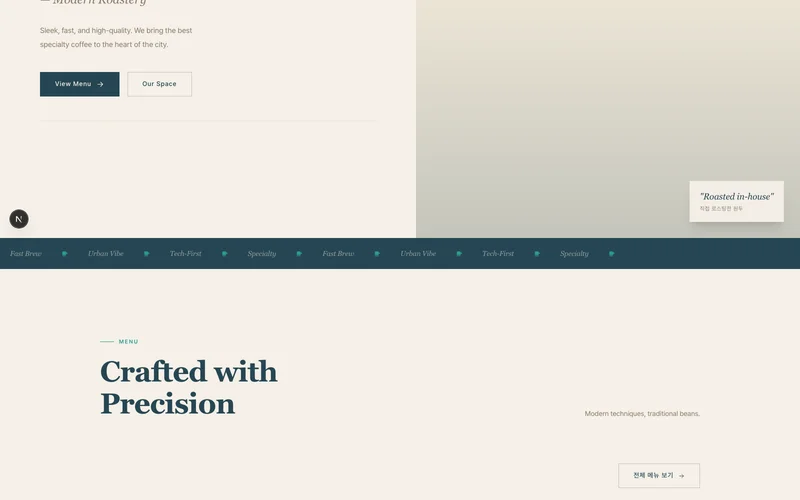
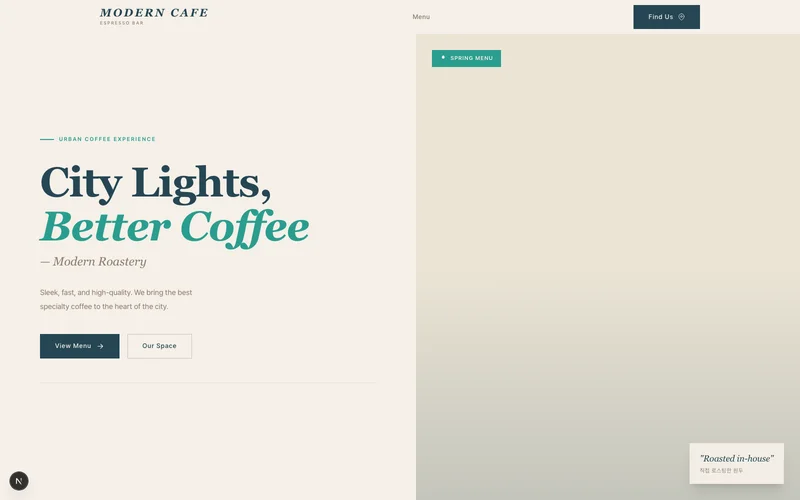
fix(template): 썸네일을 navbar+히어로(상단 기준)로 캡처
기존 fullpage 캡처 후 800x500 cover 리사이즈가 페이지 중앙을 잘라
썸네일 구도가 중구난방이었음. 전 템플릿 thumbnail.config.ts의
capture를 'fullpage'→'hero'로 변경(상단 뷰포트 1600x1000 클립).
뷰포트와 리사이즈 타겟이 동일 1.6:1 비율이라 왜곡 없이 맨 위
navbar + 히어로 섹션이 통념적 구도로 잡힘. 전 템플릿 재캡처.

diff --git a/src/templates/corporate/multipage/thumbnail.config.ts b/src/templates/corporate/multipage/thumbnail.config.ts
@@ -3,7 +3,7 @@ const config = {
   // thumbnail reflects the actual renderer + tokens + imagery.
   source: 'preview://corporate-multipage',
   viewport: { width: 1600, height: 1000 },
-  capture: 'fullpage',
+  capture: 'hero',
   output: 'public/thumbnails/template-corporate-multipage.webp',
   resize: { width: 800, height: 500 },
   waitFor: { fonts: true, networkIdle: true, minDelay: 500 },

diff --git a/src/templates/outdoor/default/thumbnail.config.ts b/src/templates/outdoor/default/thumbnail.config.ts
@@ -3,7 +3,7 @@ const config = {
   // thumbnail reflects the actual renderer + tokens + imagery.
   source: 'preview://outdoor-default',
   viewport: { width: 1600, height: 1000 },
-  capture: 'fullpage',
+  capture: 'hero',
   output: 'public/thumbnails/template-outdoor-default.webp',
   resize: { width: 800, height: 500 },
   waitFor: { fonts: true, networkIdle: true, minDelay: 800 },

diff --git a/src/templates/corporate/default/thumbnail.config.ts b/src/templates/corporate/default/thumbnail.config.ts
@@ -1,7 +1,7 @@
 const config = {
   source: 'preview://corporate-default',
   viewport: { width: 1600, height: 1000 },
-  capture: 'fullpage',
+  capture: 'hero',
   output: 'public/thumbnails/template-corporate-default.webp',
   resize: { width: 800, height: 500 },
   waitFor: { fonts: true, networkIdle: true, minDelay: 500 },

diff --git a/src/templates/interior/default/thumbnail.config.ts b/src/templates/interior/default/thumbnail.config.ts
@@ -1,7 +1,7 @@
 const config = {
   source: 'preview://interior-default',
   viewport: { width: 1600, height: 1000 },
-  capture: 'fullpage',
+  capture: 'hero',
   output: 'public/thumbnails/template-interior-default.webp',
   resize: { width: 800, height: 500 },
   waitFor: { fonts: true, networkIdle: true, minDelay: 500 },

diff --git a/src/templates/fitness/default/thumbnail.config.ts b/src/templates/fitness/default/thumbnail.config.ts
@@ -1,7 +1,7 @@
 const config = {
   source: 'preview://fitness-default',
   viewport: { width: 1600, height: 1000 },
-  capture: 'fullpage',
+  capture: 'hero',
   output: 'public/thumbnails/template-fitness-default.webp',
   resize: { width: 800, height: 500 },
   waitFor: { fonts: true, networkIdle: true, minDelay: 500 },

diff --git a/src/templates/medical/default/thumbnail.config.ts b/src/templates/medical/default/thumbnail.config.ts
@@ -1,7 +1,7 @@
 const config = {
   source: 'preview://medical-default',
   viewport: { width: 1600, height: 1000 },
-  capture: 'fullpage',
+  capture: 'hero',
   output: 'public/thumbnails/template-medical-default.webp',
   resize: { width: 800, height: 500 },
   waitFor: { fonts: true, networkIdle: true, minDelay: 500 },

diff --git a/src/templates/wedding/default/thumbnail.config.ts b/src/templates/wedding/default/thumbnail.config.ts
@@ -1,7 +1,7 @@
 const config = {
   source: 'preview://wedding-default',
   viewport: { width: 1600, height: 1000 },
-  capture: 'fullpage',
+  capture: 'hero',
   output: 'public/thumbnails/template-wedding-default.webp',
   resize: { width: 800, height: 500 },
   waitFor: { fonts: true, networkIdle: true, minDelay: 500 },

diff --git a/src/templates/legal/default/thumbnail.config.ts b/src/templates/legal/default/thumbnail.config.ts
@@ -1,7 +1,7 @@
 const config = {
   source: 'preview://legal-default',
   viewport: { width: 1600, height: 1000 },
-  capture: 'fullpage',
+  capture: 'hero',
   output: 'public/thumbnails/template-legal-default.webp',
   resize: { width: 800, height: 500 },
   waitFor: { fonts: true, networkIdle: true, minDelay: 500 },

diff --git a/src/templates/cafe/default/thumbnail.config.ts b/src/templates/cafe/default/thumbnail.config.ts
@@ -1,7 +1,7 @@
 const config = {
   source: 'preview://cafe-default',
   viewport: { width: 1600, height: 1000 },
-  capture: 'fullpage',
+  capture: 'hero',
   output: 'public/thumbnails/template-cafe-default.webp',
   resize: { width: 800, height: 500 },
   waitFor: { fonts: true, networkIdle: true, minDelay: 500 },

diff --git a/src/templates/cafe/modern/thumbnail.config.ts b/src/templates/cafe/modern/thumbnail.config.ts
@@ -1,7 +1,7 @@
 const config = {
   source: 'preview://cafe-modern',
   viewport: { width: 1600, height: 1000 },
-  capture: 'fullpage',
+  capture: 'hero',
   output: 'public/thumbnails/template-cafe-modern.webp',
   resize: { width: 800, height: 500 },
   waitFor: { fonts: true, networkIdle: true, minDelay: 500 },

diff --git a/src/templates/cafe/cozy/thumbnail.config.ts b/src/templates/cafe/cozy/thumbnail.config.ts
@@ -1,7 +1,7 @@
 const config = {
   source: 'preview://cafe-cozy',
   viewport: { width: 1600, height: 1000 },
-  capture: 'fullpage',
+  capture: 'hero',
   output: 'public/thumbnails/template-cafe-cozy.webp',
   resize: { width: 800, height: 500 },
   waitFor: { fonts: true, networkIdle: true, minDelay: 500 },
